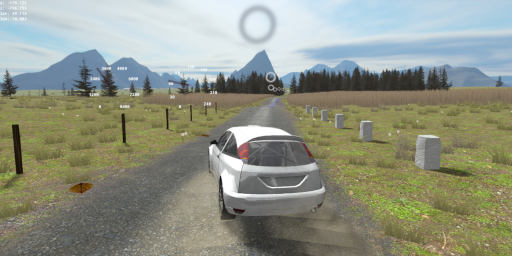
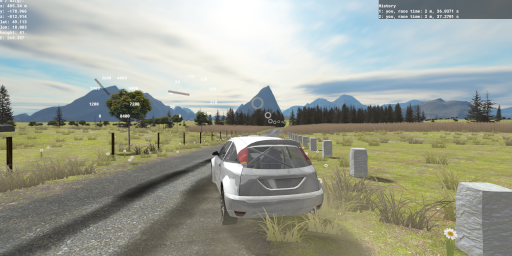
Update JB grass color

diff --git a/README.md b/README.md
@@ -5,7 +5,7 @@ A rally game based on OpenStreetMap data.
 ## Screenshots
 
 ### Track JB
-![Screenshot-JB-2023-11-26b.png](media/Screenshot-JB-2024-08-23.png)
+![Screenshot-JB-2024-08-24.png](media/Screenshot-JB-2024-08-24.png)
 
 ### Snow 1
 ![Screenshot-S1-2023-01-06](media/Screenshot-S1-2024-08-23.png)
